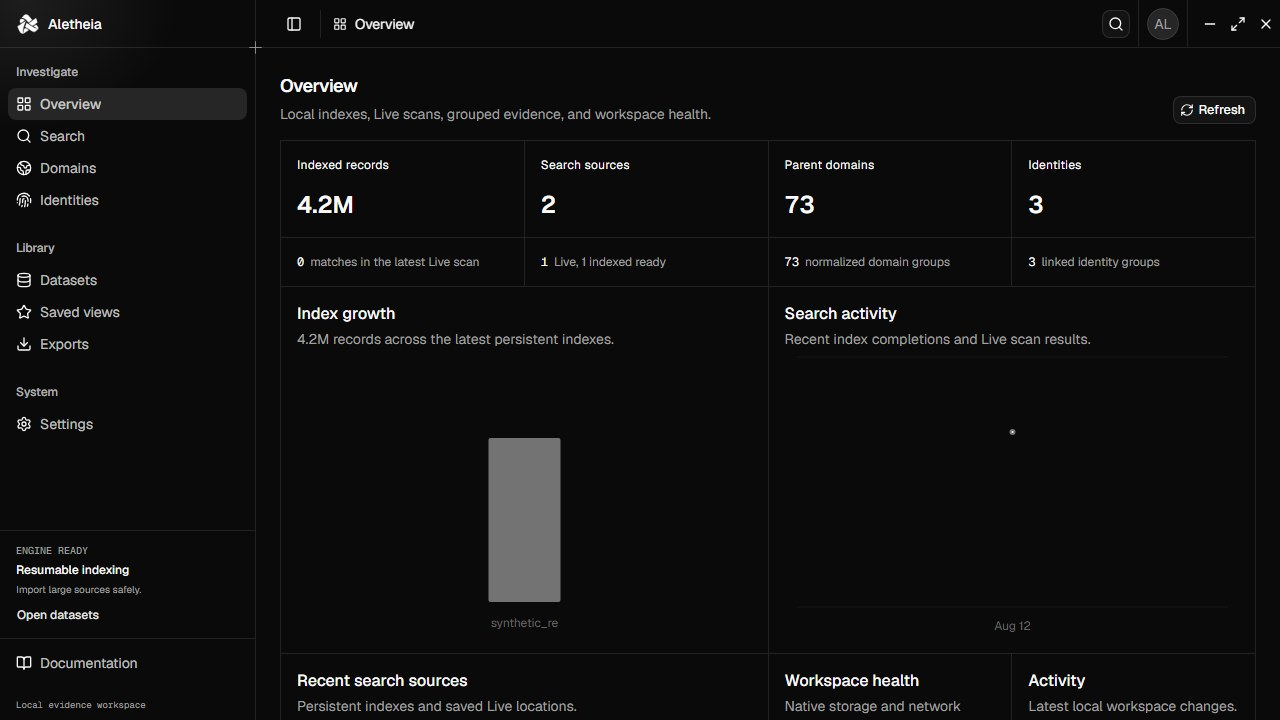
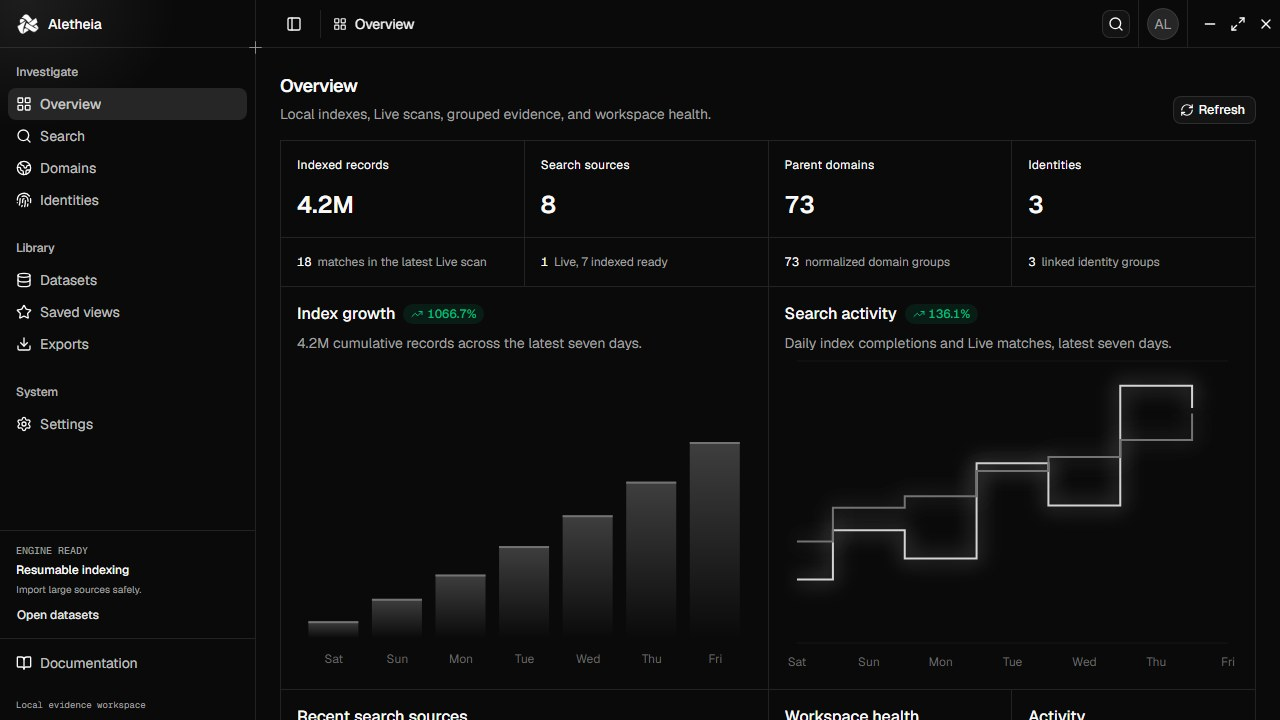
docs: refresh Efferd dashboard previews

diff --git a/CHANGELOG.md b/CHANGELOG.md
@@ -2,6 +2,7 @@
 
 ## Unreleased
 
+- Restored the Efferd Dashboard 2 gradient-bar and glowing dual-line treatments for Index growth and Search activity, backed by real seven-day workspace activity and reliable hover details.
 - Separated persistent import controls from Live scan controls so searches no longer appear as active imports or block unrelated dataset actions.
 - Isolated domain reads and rebuilds from the shared application database connection, and skipped redundant first-open domain repairs when aggregate links already exist.
 - Added a fast exact-term path for complete emails, domains, URLs, phone numbers, and IP addresses before falling back to an expensive substring index scan.
